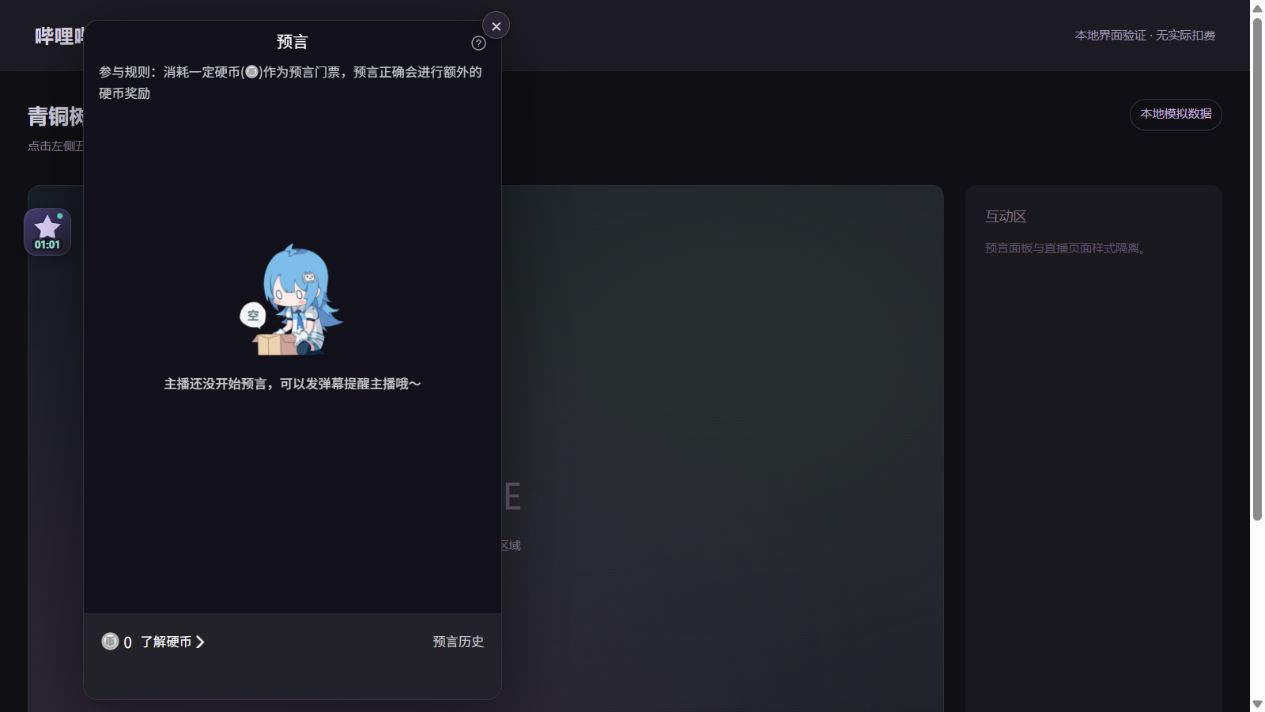
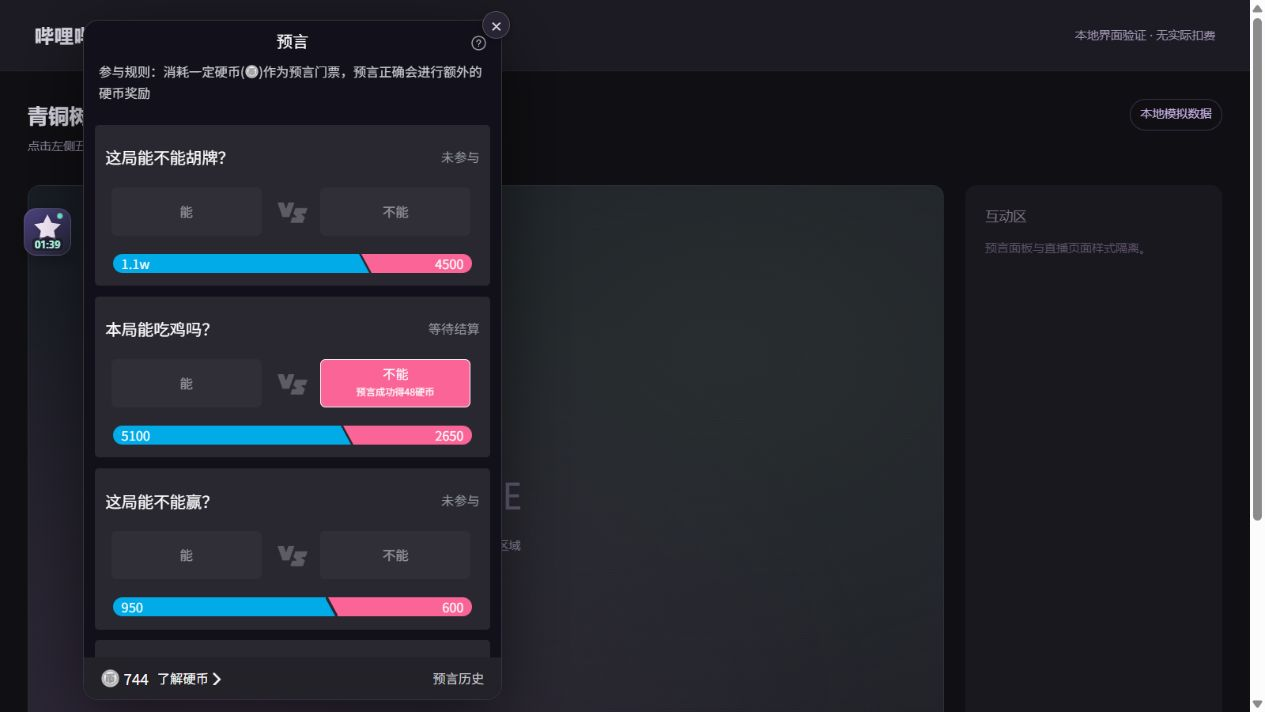
Compact official footer and hide embedded scrollbars (v1.0.1)

Changed region(s): [[0.0308, 0.1854, 0.4008, 0.6489], [0.0617, 0.6798, 0.4008, 0.9579], [0.3391, 0.6798, 0.4008, 0.7107]]

diff --git a/bilibili-live-prophecy-official.user.js b/bilibili-live-prophecy-official.user.js
@@ -1,7 +1,7 @@
 // ==UserScript==
 // @name         哔哩哔哩直播 · 预言（官方 H5 版）
 // @namespace    local.bilibili.live.prophecy.official
-// @version      1.0.0
+// @version      1.0.1
 // @description  在电脑直播间嵌入官方手机预言页面，保留拖动、倒计时和全屏显隐。
 // @homepageURL  https://github.com/jiazaiwanbi/biliBetWeb
 // @downloadURL  https://raw.githubusercontent.com/jiazaiwanbi/biliBetWeb/main/bilibili-live-prophecy-official.user.js
@@ -19,7 +19,7 @@
 // @license      MIT
 // ==/UserScript==
 
-/* The iframe loads Bilibili's hosted page without copying or rewriting its code.
+/* The iframe loads Bilibili's hosted page; only desktop presentation CSS is added.
  * This wrapper only reads room/login/status APIs. All participation, confirmation,
  * history, and settlement UI belong to the official page. No cookie is exported.
  */
@@ -156,6 +156,22 @@
       anchor.textContent = '在新标签页打开官方页面'; notice.append(anchor);
     }
   }
+  function styleOfficialDocument(doc) {
+    if (!doc || doc.getElementById('prophecy-desktop-style')) return;
+    const style = doc.createElement('style');
+    style.id = 'prophecy-desktop-style';
+    style.textContent = `
+      html,body{overflow-x:hidden!important;scrollbar-gutter:auto!important}
+      *{scrollbar-width:none!important}
+      *::-webkit-scrollbar{display:none!important;width:0!important;height:0!important}
+      #main{--desktop-footer-height:1.04rem}
+      #main>.content{width:100%!important;max-width:100%}
+      #main .user-game-footer{height:var(--desktop-footer-height)!important;padding:0 .426667rem!important;display:flex!important;align-items:center!important}
+      #main .user-game-footer>.line{width:100%}
+      #main .user-detail-content>.h80{height:var(--desktop-footer-height)!important;flex-shrink:0}
+    `;
+    (doc.head || doc.documentElement).append(style);
+  }
   function ensureFrame() {
     if (!state.ready || !state.open) return;
     const url = buildOfficialUrl(state.anchorId, state.roomId);
@@ -171,6 +187,7 @@
       if (frame !== currentFrame) return;
       try {
         const doc = currentFrame.contentDocument;
+        styleOfficialDocument(doc);
         if (doc?.querySelector('#main') && doc.body?.innerText.trim()) {
           clearTimeout(frameTimer); frameNotice(''); return;
         }

diff --git a/README.md b/README.md
@@ -2,7 +2,7 @@
 
 在哔哩哔哩电脑直播间查看和参与手机端预言的 Tampermonkey / Violentmonkey 用户脚本。
 
-**官方 H5 版：1.0.0 · 自定义版：1.0.7**
+**官方 H5 版：1.0.1 · 自定义版：1.0.7**
 
 [安装官方 H5 版](https://raw.githubusercontent.com/jiazaiwanbi/biliBetWeb/main/bilibili-live-prophecy-official.user.js) · [安装自定义版](https://raw.githubusercontent.com/jiazaiwanbi/biliBetWeb/main/bilibili-live-prophecy.user.js) · [示例直播间](https://live.bilibili.com/1774678)
 
@@ -20,13 +20,16 @@
 - 官方页面首次打开才加载，之后关闭重开以及图标自动刷新都不重载它。支持 `Element.moveBefore` 的浏览器在全屏切换时也保留 iframe 状态；旧浏览器回退为普通 DOM 移动，可能重新加载官方页面。
 - 面板外侧的 **×** 关闭面板；油猴菜单可重新加载官方页面或重置图标位置。
 - 面板保留官方的参与规则、“了解硬币”、历史页面、按钮和列表顺序。自定义版此前的卡片样式修改不会套用到官方页面。
+- 1.0.1：压缩官方底栏及其对应占位，去掉底栏下方的大块空白；隐藏列表和历史页的滚动条，保留滚轮/触控滚动，并将历史页宽度限制在面板内以消除横向溢出。这些调整通过 iframe 内的样式实现，路由切换后继续生效。
 - 图标每秒更新倒计时；状态读取间隔为打开且进行中 4 秒、打开且无进行中 10 秒、关闭 20 秒、后台 60 秒。官方页面自己的自动更新由其代码控制。
 - 官方页需要与直播间同域运行。请在 `https://live.bilibili.com/数字房间号` 使用；不支持将这个 iframe 搬到任意其他网站。
 - 主列表记录范围和“未参与”等状态沿用官方行为；个人结算记录可进入 **预言历史** 查看。
 
-已验证：同域本地预览中的官方页面渲染、历史切换、关闭重开保留页面、网页全屏切换保留历史页、全屏闲置隐藏。在已登录 Chrome 中只读验证了官方页面读取硬币余额与个人历史。尚未通过安装脚本在真实直播间完成嵌入实测，也未为测试提交参与或消耗硬币。
+已验证：同域本地预览中的官方页面渲染、历史切换、关闭重开保留页面、网页全屏切换保留历史页、全屏闲置隐藏。1.0.1 使用模拟接口驱动官方页面，验证了底栏紧凑布局、主列表与历史页无横向溢出、隐藏滚动条后仍可滚动。在已登录 Chrome 中只读验证了官方页面读取硬币余额与个人历史。尚未通过安装脚本在真实直播间完成嵌入实测，也未为测试提交参与或消耗硬币。
 
-![官方 H5 同域预览，外壳状态为模拟数据，官方页未登录](docs/images/official.jpg)
+![官方 H5 同域预览，内外接口均为本地模拟数据](docs/images/official.jpg)
+
+![官方历史页，滚动条已隐藏，接口为本地模拟数据](docs/images/official-history.jpg)
 
 ## 自定义版安装
 
